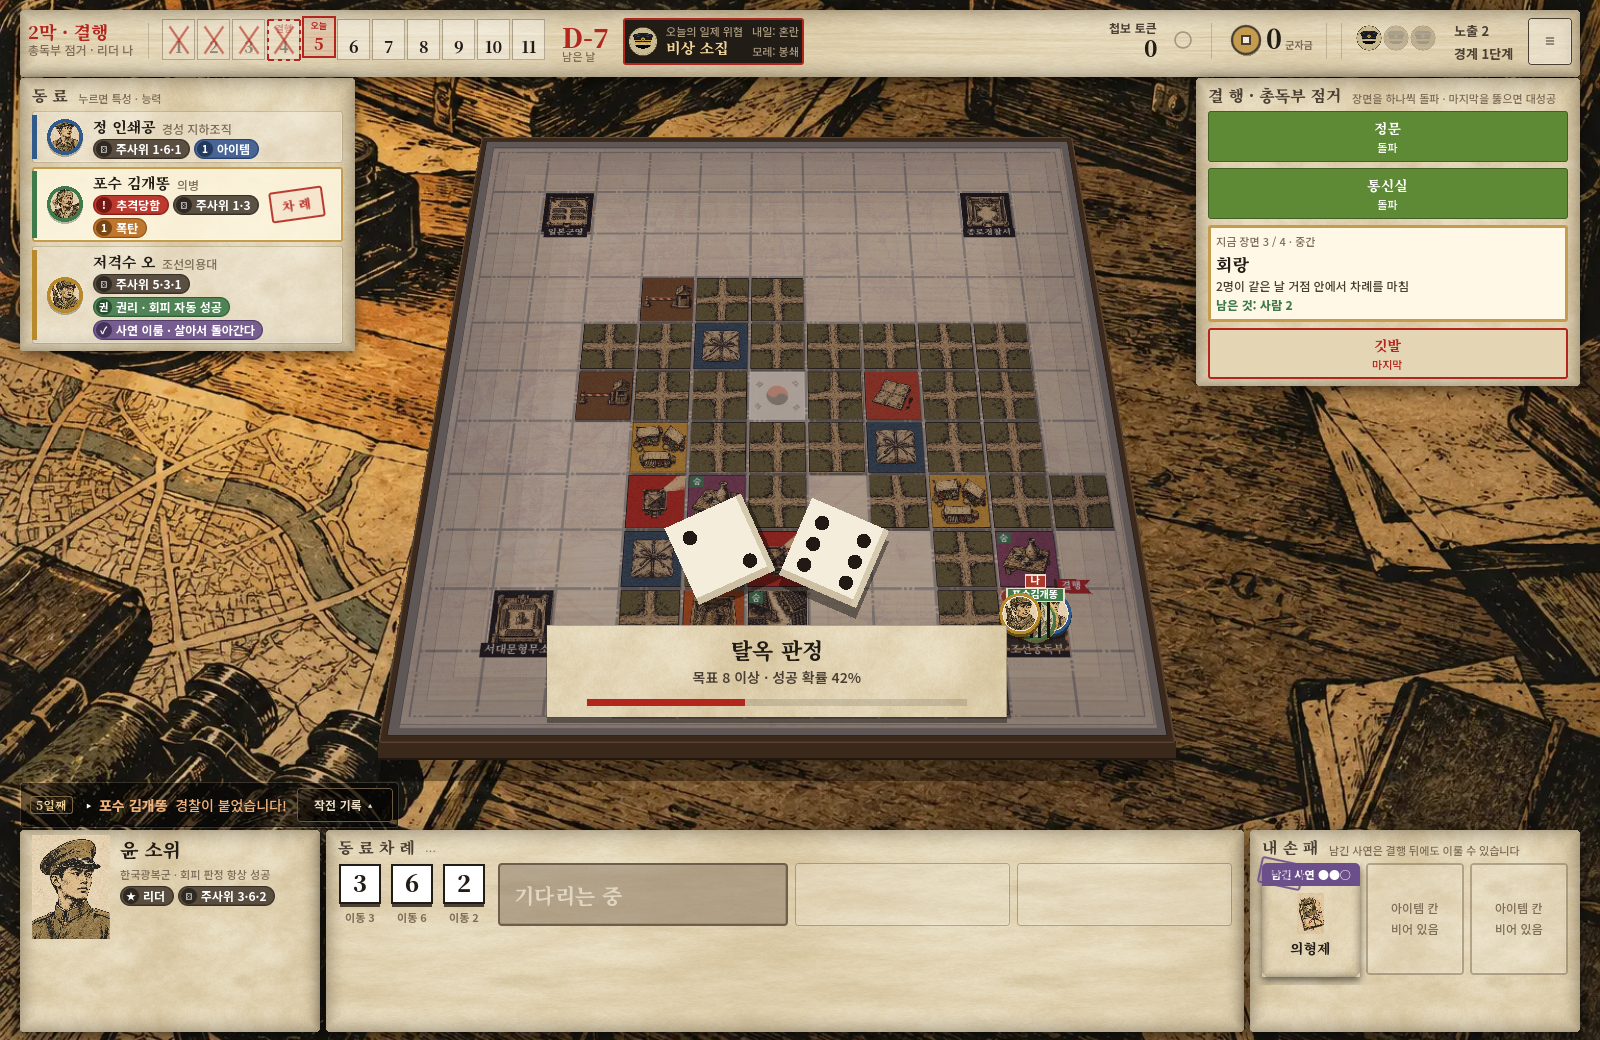
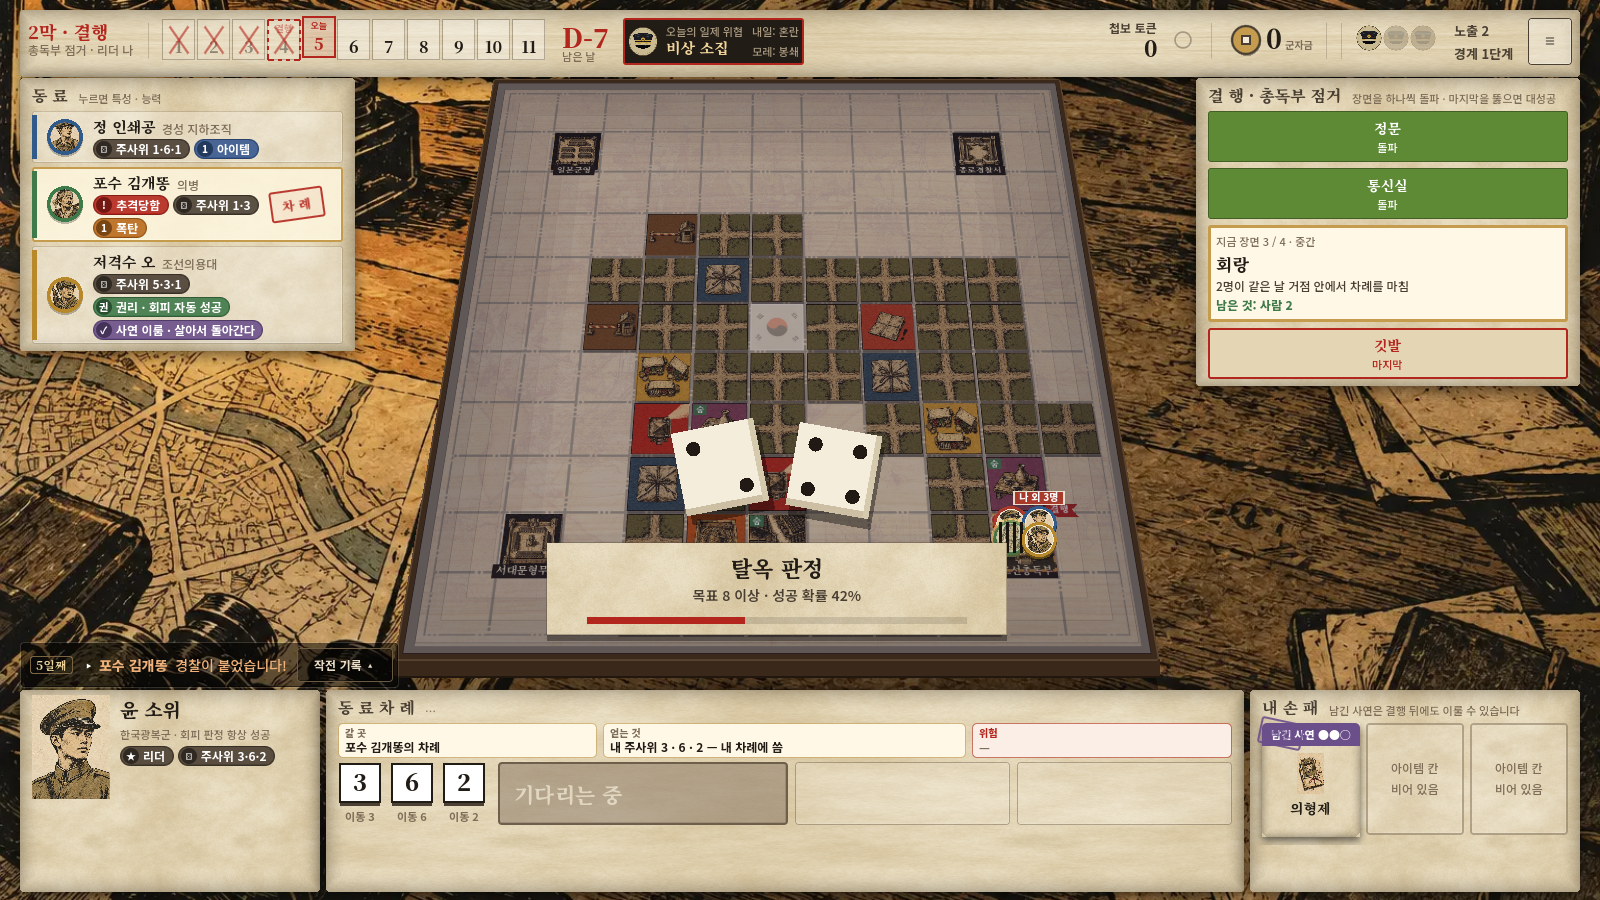
M단계 다듬기: 기운 보드 풍선 도움말, 한 칸에 모인 말 두 줄 세우기·이름표 하나로, 독 빈자리 채움

diff --git a/v2_구현/지시서/M_화면_재배치.md b/v2_구현/지시서/M_화면_재배치.md
@@ -67,4 +67,9 @@
 **시험**: 화면 2판 · 그림 없는 1판 · 평면 보드 1판(`v2uitest 1 flat`) 통과, 온라인 6/6.
 **캡처**: `v2_구현/M단계_캡처/` (훈련 · 행동 먼저 · 이동 미리보기 · 2막).
 
-**남은 것**: 전신 인형 말(그림 필요), 칸 풍선 도움말(기운 보드에서는 미리보기 띠가 대신), 화면 높이가 900보다 클 때 독 아래 여백.
+**고친 것 (같은 날)**
+- 기운 보드에서도 칸 풍선 도움말이 뜬다. 보드가 정한 `tooltip_text`를 기운 보드가 그대로 쓴다.
+- 한 칸에 여럿이 있으면 둘은 나란히, 셋 이상은 뒤 줄 · 앞 줄로 세운다. 이름표는 「나 외 N명」 하나로 합친다.
+- 독이 비어 보이던 것: 미리보기 띠를 늘 보인다. 동료 차례에는 「누구의 차례 · 내 주사위 · 위험」, 칸을 가리키면 그 칸 정보가 나온다. 단추 줄 높이도 단추판 두 줄(85px)로 고정했다.
+
+**남은 것**: 전신 인형 말(그림 필요).
